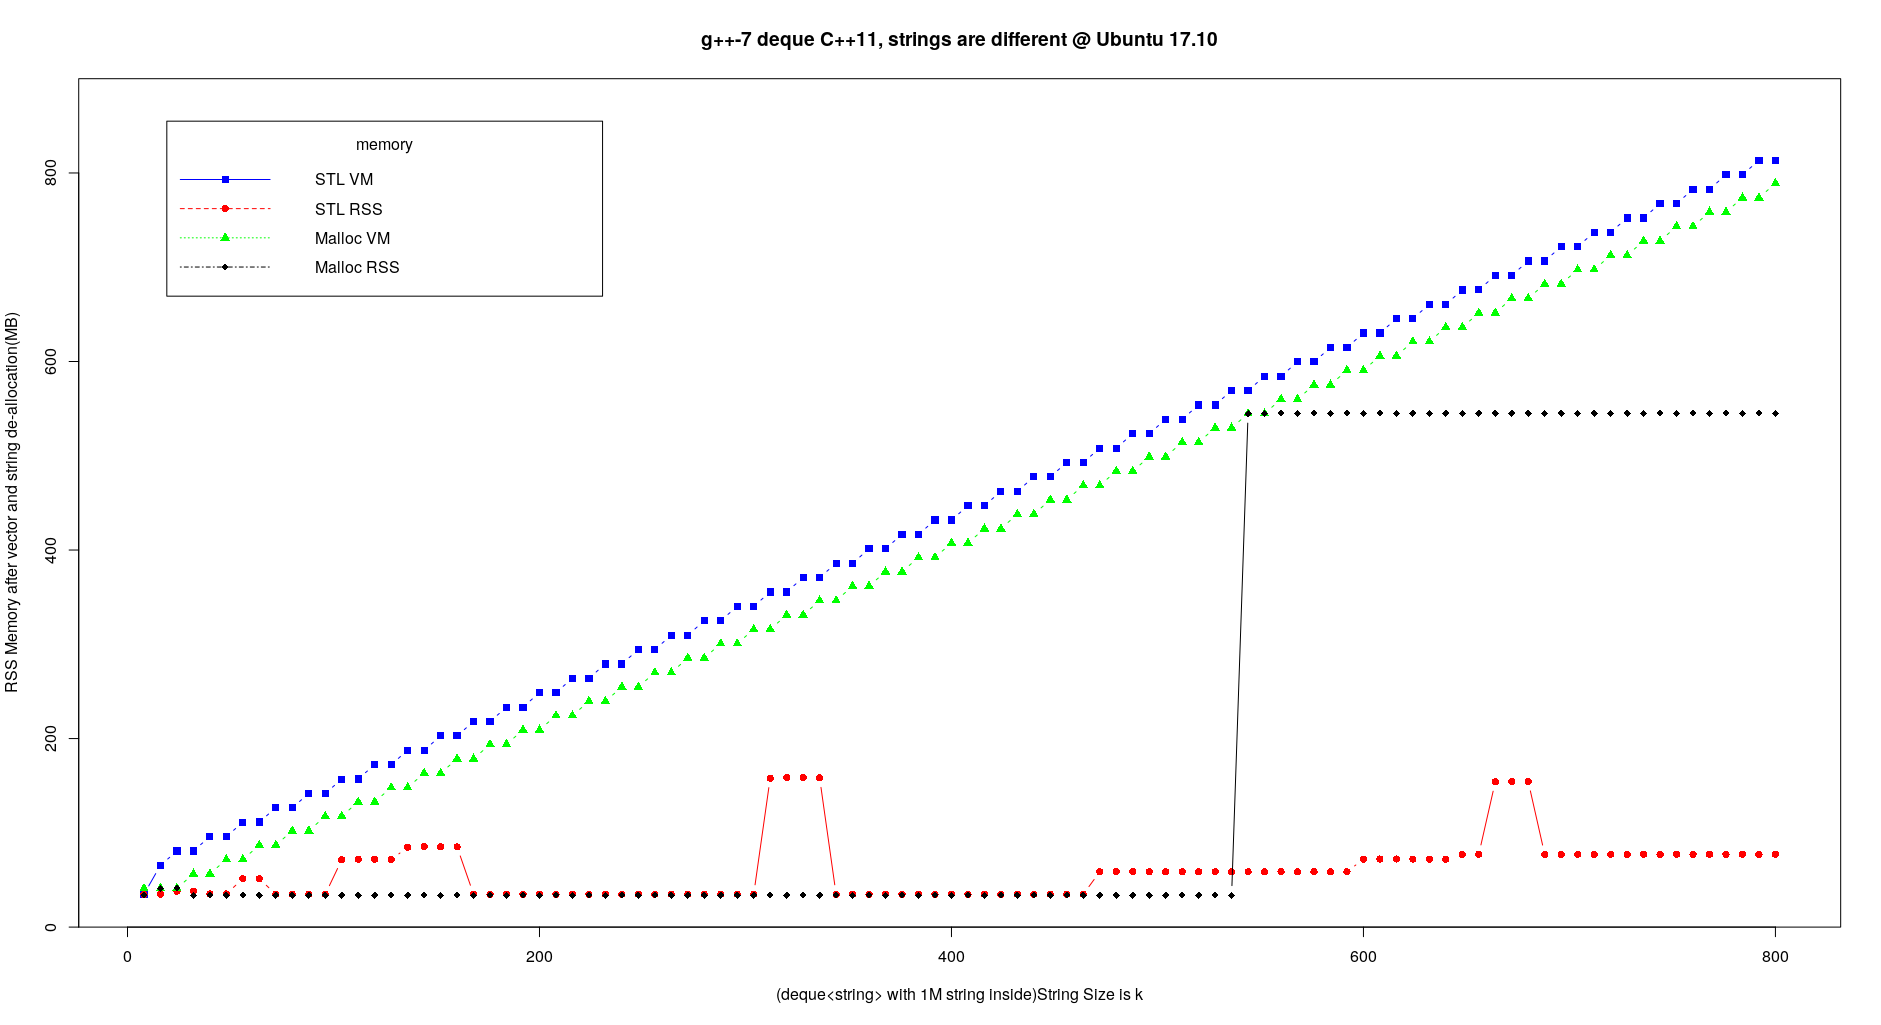
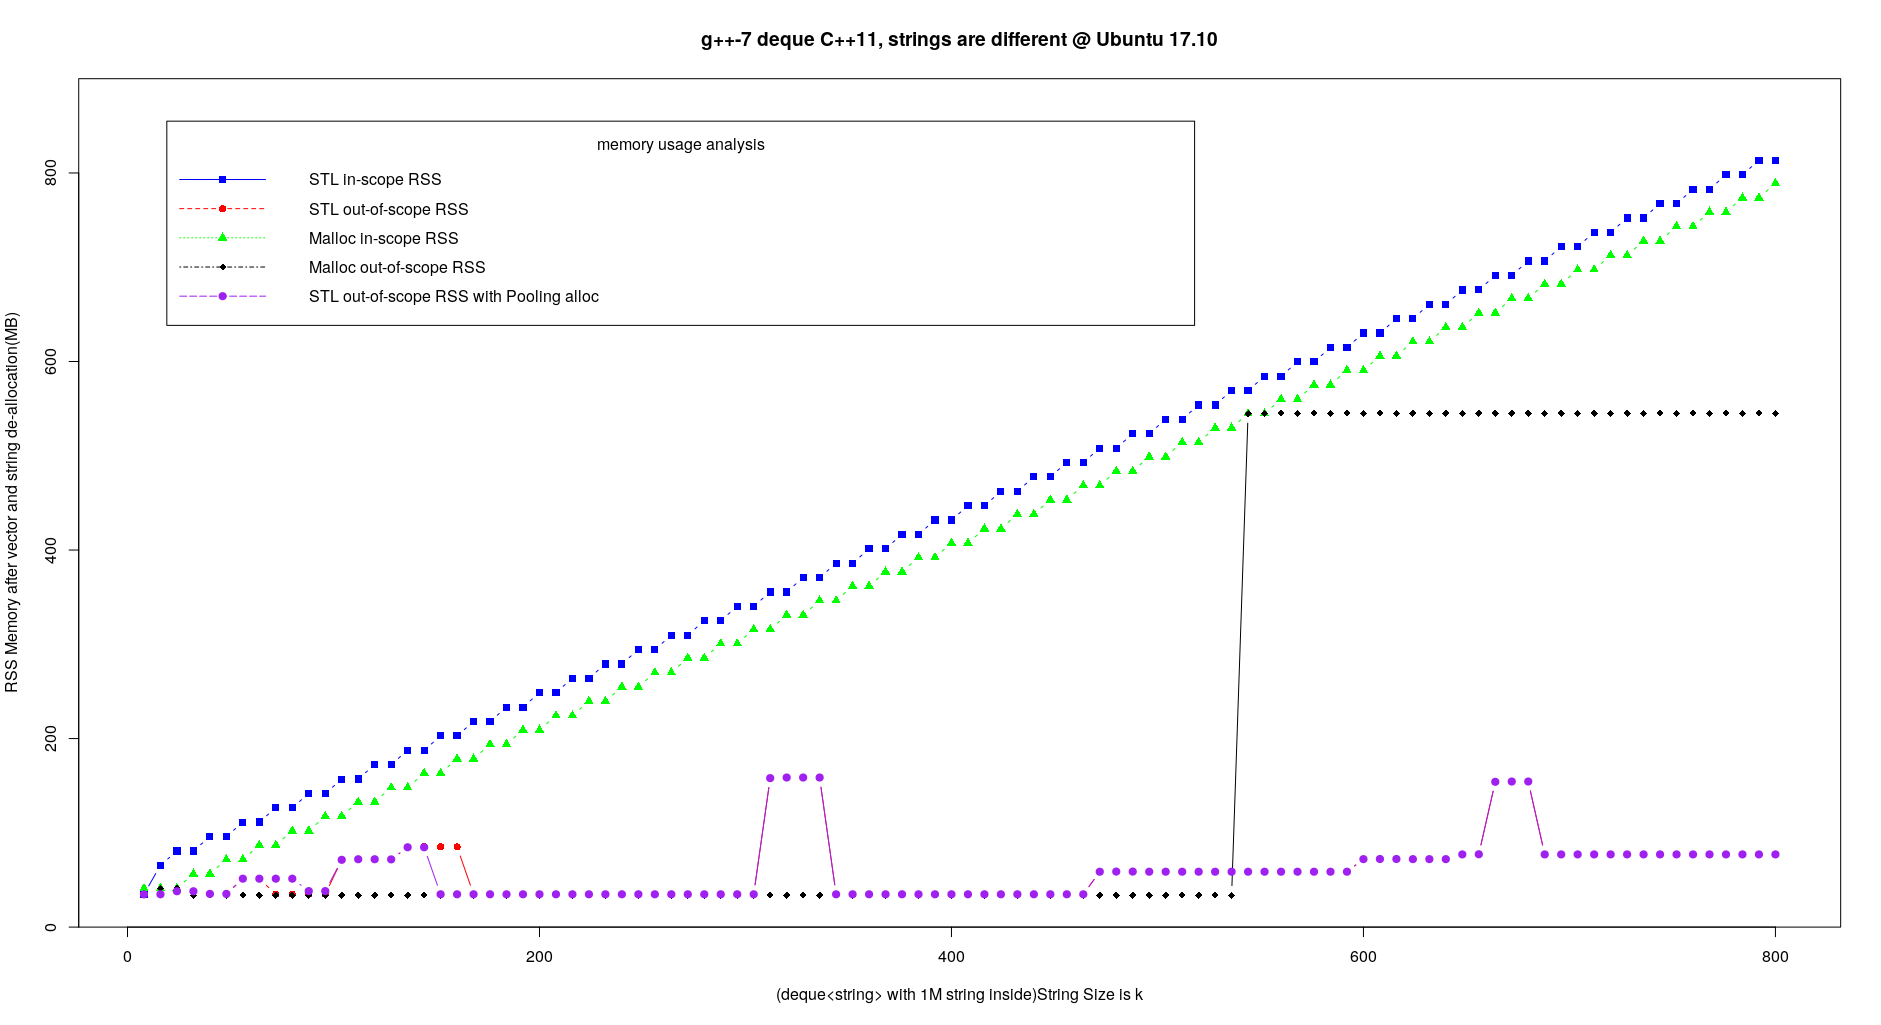
tune

diff --git a/src/stl_mem.cpp b/src/stl_mem.cpp
@@ -1,7 +1,7 @@
 //
 // g++-7 stl_mem.cpp -O3 -o mememe -std=c++11 && ./mememe
 //
-#include <unistd.h>
+#include <unistd.h> // _SC_PAGE_SIZE
 #include <cstdio>
 #include <vector>
 #include <list>
@@ -10,10 +10,13 @@
 #include <iostream>
 #include <fstream>
 #include <string>
+#include <ext/pool_allocator.h>
 
 using namespace std;
+
+typedef __gnu_cxx::__pool_alloc<string> POOL;
+#define STL_CONTAINER deque<string, POOL> // You can replace it with `list`, `vector`
 //#define ALL_ZERO_STRING
-#define STL_CONTAINER list
 
 int sz[1024]={}, idx_sz=0;
 int rss0[1024]={}, idx_rss0=0;
@@ -41,7 +44,7 @@ void process_mem_usage(double& vm_usage, double& resident_set) {
 
 void test_stl_mem(int k){
   srand(time(NULL));
-  STL_CONTAINER<string> strvec;
+  STL_CONTAINER strvec;
   static const int LOOPSIZE = 1000000; // 1million
   for(long long i = 0; i < LOOPSIZE; ++i){
     string out(k,'0');

diff --git a/README.md b/README.md
@@ -4,7 +4,9 @@
 
 GCC STL memory management has two stages.
  
-Before g++3.4, STL uses two strategies to allocate memory, although HP(Visual C++), SGI(GCC), RW(C++Builder) STLs have different implementations. To avoid defragmentation and speed up memory allocation, STL matains a memory pool with free memory blocks connnected by a free list. The source code are at [pool_allocator.h](https://github.com/gcc-mirror/gcc/blob/master/libstdc%2B%2B-v3/include/ext/pool_allocator.h#L84).
+Before g++3.4, STL uses two strategies to allocate memory, although HP(Visual C++), SGI(GCC), RW(C++Builder) STLs have different implementations. To avoid defragmentation and speed up memory allocation, STL matains a memory pool with free memory blocks connnected by a free list. The source code is at [bits/stl_alloc.h](https://github.com/henrywoo/STLandMallocMemory/blob/master/g%2B%2B/3.3/bits/stl_alloc.h#L332). This two-strategies way increases the complexity of implementation, but reduced memeory defragmentation.
+ 
+Starting from g++ 3.4, GCC STL by default uses operator new/delete, which finally call glibc's malloc/free [here](https://github.molgen.mpg.de/git-mirror/glibc/blob/master/malloc/malloc.c#L22), for memeory allocation. As malloc system also uses pool technique. We can still observe the pooling effect. The previous STL pool code was moved to [pool_allocator.h](https://github.com/gcc-mirror/gcc/blob/master/libstdc%2B%2B-v3/include/ext/pool_allocator.h#L84).
 
 The freelist properties are defined as below. We can see its size is 16, and max bytes is 128.
 ```cpp
@@ -21,7 +23,7 @@ The freelist properties are defined as below. We can see its size is 16, and max
 [Here](https://github.com/gcc-mirror/gcc/blob/master/libstdc%2B%2B-v3/include/ext/pool_allocator.h#L243) is the logic of STL memory `allocation`. If `GLIBCXX_FORCE_NEW` is defined or object size is greater than 128 Bytes, just use new/delete(or malloc/free) sub-system; otherwise, try to get an object from the freelist in memory pool. If the object is from memory pool, after deallocation, it is released back to the pool. [Here]((https://github.com/gcc-mirror/gcc/blob/master/libstdc%2B%2B-v3/include/ext/pool_allocator.h#L279)) is the logic of `deallocation`.
 
 
-After g++ 3.4, GCC STL uses new/delete.
+
 
  
 The following is my test results generated from code [stl_mem.cpp](src/stl_mem.cpp) and [malloc_mem.cpp](src/malloc_mem.cpp), where I track memory usage of VM/VSS(Virtual Set Size) and RSS(Resident Set Size) `after STL container is deallocated(or goes out of scope)` or `after memory is reclaimed by free in malloc/free subsystem`. These two metrics are often used by many monitoring tools in companies to track program's memory usage.
